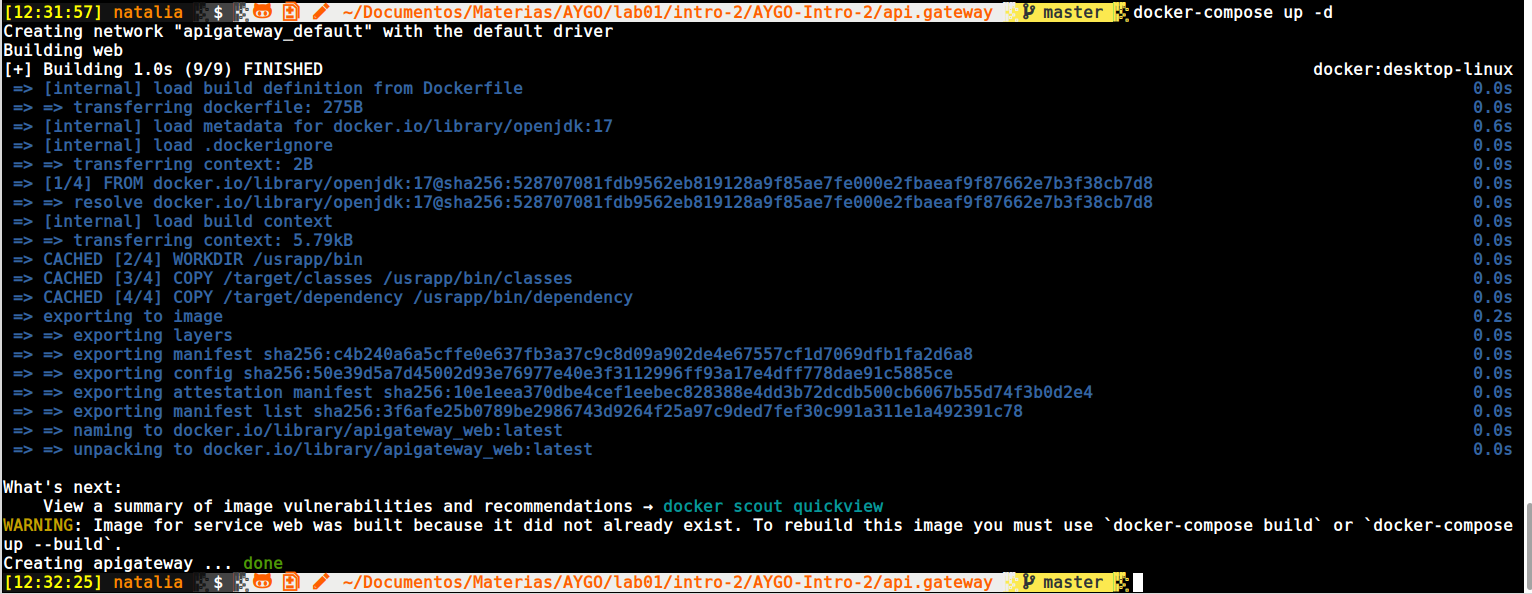
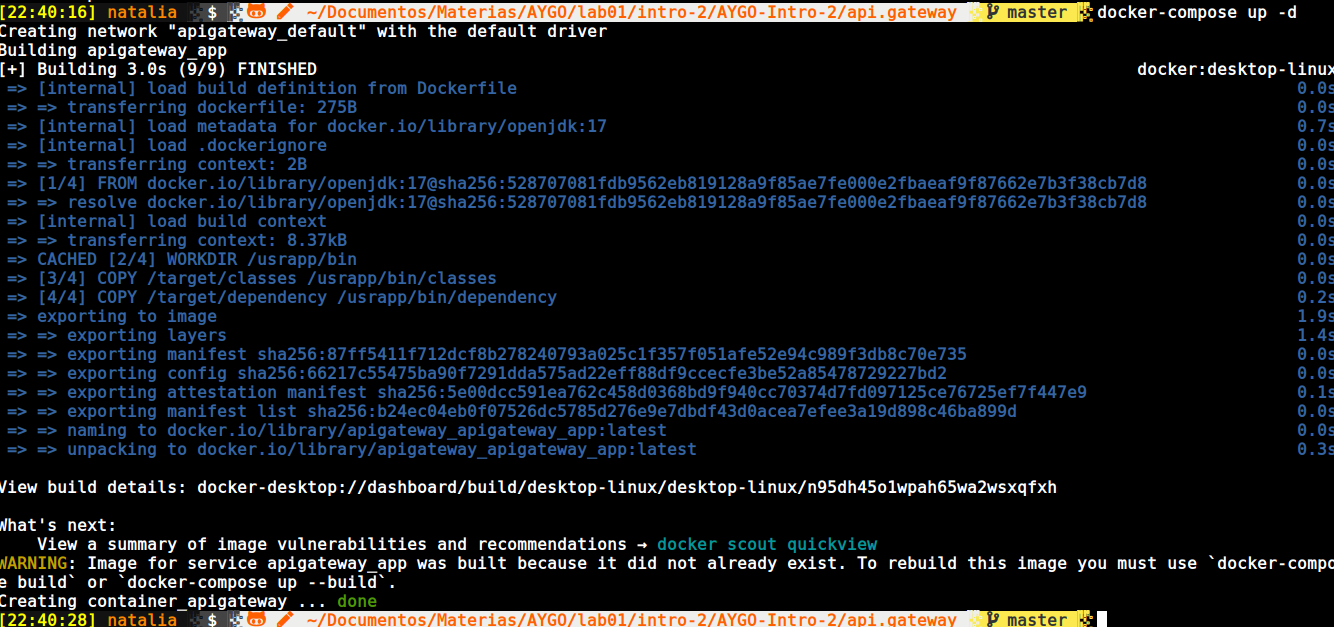
config, readme

Changed region(s): [[0.0, 0.0, 1.0, 1.0]]

diff --git a/api.gateway/src/main/java/com/docker/intro/api/gateway/SpringCloudConfig.java b/api.gateway/src/main/java/com/docker/intro/api/gateway/SpringCloudConfig.java
@@ -11,7 +11,7 @@ public class SpringCloudConfig {
     @Bean
     public RouteLocator gatewayRoutes(RouteLocatorBuilder builder) {
        return builder.routes()
-        		        	.route("intro", r -> r.path("/user/**").uri("http://localhost:8090/"))
+        		        	.route("intro", r -> r.path("/user/**").uri("http://172.16.0.110:8090/"))
         		         	.build();
     }
 

diff --git a/README.md b/README.md
@@ -100,7 +100,7 @@ You can try to access the corresponding EC2 IP/DNS with the configured port from
 ![](imgs/db_access2.png)
 
 
-#### *IMPORTANT!!!:* Don't forget to open the ports you configured in the inbound rules of your EC2 instance's security group.
+#### *IMPORTANT!!!:* Don't forget to open the ports you configured, in the inbound rules of your EC2 instance's security group.
 
 #### Code
 
@@ -185,13 +185,13 @@ docker run -d -p 8080:8080 --name containerdockerapigateway dockerapigateway
 
 ```
 services:
-    web:
+    user_web_app:
         build:
             context: .
             dockerfile: Dockerfile
-        container_name: javaapp
+        container_name: container_user_web_app
         ports:
-            - "8087:8090"
+            - "8090:8090"
 
 ```
 
@@ -199,13 +199,13 @@ services:
 
 ```
 services:
-    web:
+    apigateway_app:
         build:
             context: .
             dockerfile: Dockerfile
-        container_name: apigateway
+        container_name: container_apigateway
         ports:
-            - "8088:8080"
+            - "8080:8080"
 
 ```
 
@@ -234,6 +234,10 @@ Using Docker Desktop, you can verify your configuration:
 **API Gateway** 
 ![](imgs/apig_dash.png)
 
+It should now be possible to make a post request via the API gateway:
+
+![](imgs/post1.png)
+![](imgs/db_record.png)
 
 #### Docker Image
 ```
